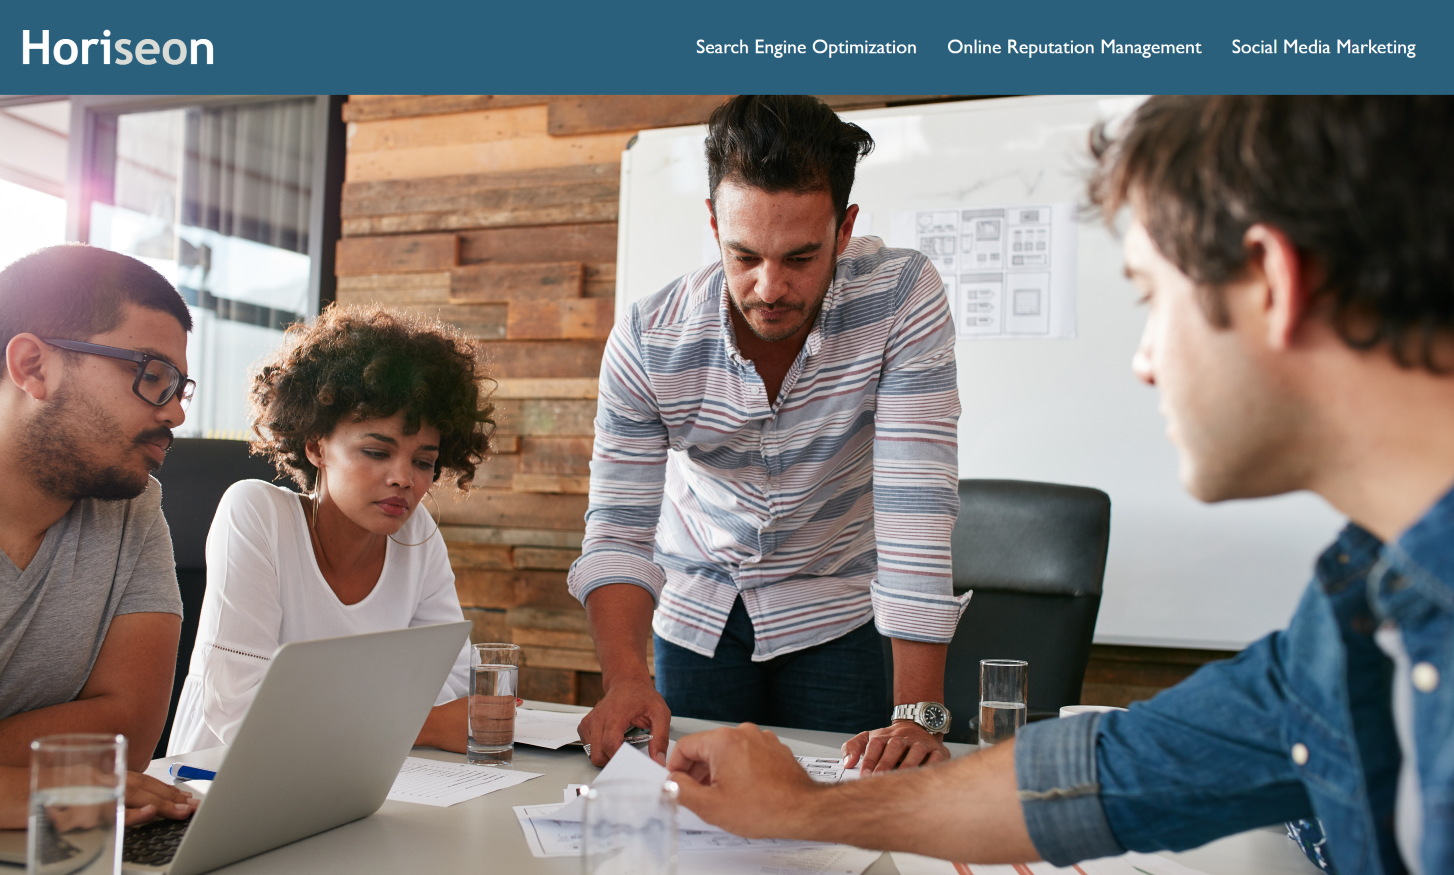
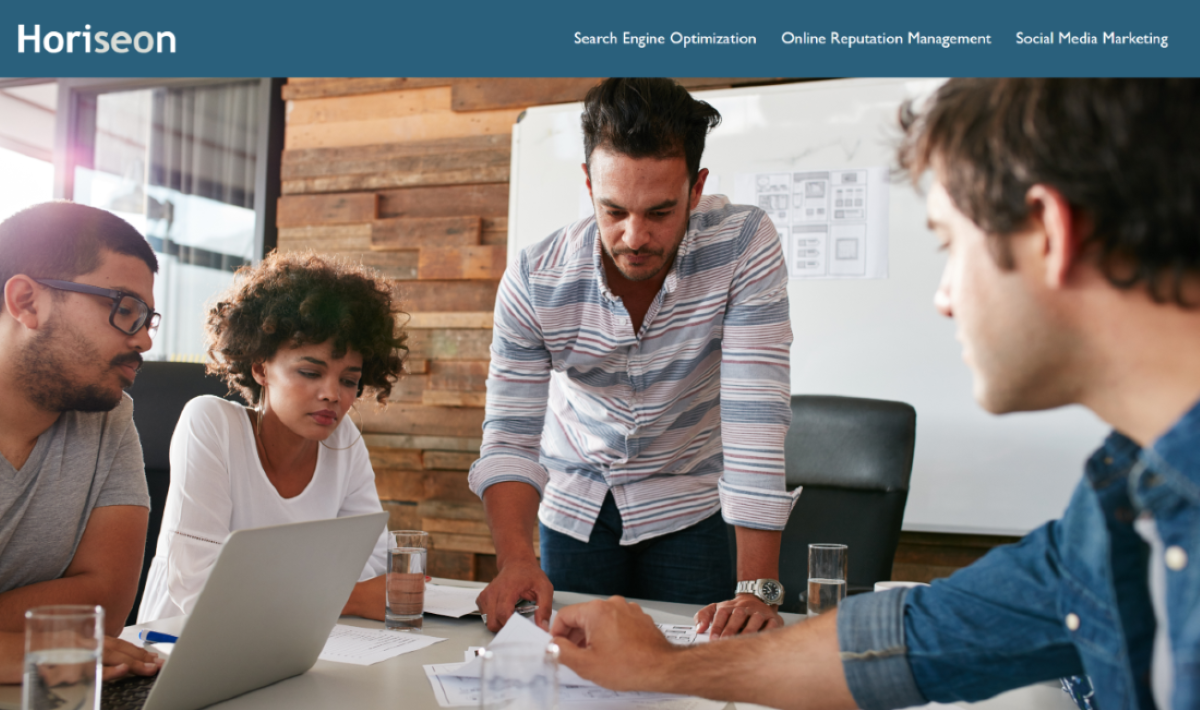
further formatted work content images. started to add headings to anchors

diff --git a/assets/style.css b/assets/style.css
@@ -99,7 +99,6 @@ header li {
 .about-me-container {
     width: 100%;
     display: flex;
-    margin-top: 30px;
 }
 
 .about-me-title {
@@ -122,10 +121,11 @@ header li {
 }
 
 /* work section */
-.work-container-1 {
+.work-container {
     display: flex;
     width: 100%;
     margin-top: 30px;
+    justify-content: space-between;
 }
 
 .work-title {
@@ -142,68 +142,26 @@ header li {
     display: flex;
     flex-wrap: wrap;
     width: 81%;
+    justify-content: center;
 }
 
 #horiseon {
-    width: 100%;
-}
-
-.work-card-1 img {
     position: relative;
-    width: 1500px;
-    height: 800px;
     border: 4px var(--header-color) solid;
-    margin-left: 35px;
-    z-index: 0;
 }
 
-.work-card-1 {
-    position: relative;
-}
-
-.work-card-1 h4 {
+#horiseon h4 {
     position: absolute;
-    left: 39px;
-    bottom: 40px;
-    font-size: 35px;
-    background-color: var(--header-color);
-    padding: 5px 5px 5px 15px;
-    color: var(--header-bg);
-    z-index: 2;
-}
-
-.work-container-2 {
-    display: flex;
-    position: relative;
-    width: 100%;
-    justify-content: flex-end;
-    margin-top: 20px;
-}
-
-.work-container-2 img {
-    border: 4px var(--header-color) solid;
-    height: 400px;
-    width: 740px;
-}
-
-#placeholder-3 img,
-#placeholder-5 img {
-    margin-right: 41px;
-}
-
-#placeholder-2 img,
-#placeholder-4 img {
-    margin-right: 20px;
-}
-
-.work-container-2 h4 {
-    position: absolute;
-    bottom: 30px;
-    font-size: 35px;
-    padding: 5px 5px 5px 15px;
+    bottom: 20px;
+    left: 20px;
     background-color: var(--header-color);
     color: var(--header-bg);
 }
+
+#placeholder-2 {
+    border: 5px yellowgreen solid;
+}
+
 /*
 #horiseon::after {
     content: '';
@@ -216,11 +174,12 @@ header li {
     z-index: 1;
 }
 
-/* Needs Adjusting */
+/* Needs Adjusting 
 #horiseon:hover::after {
     transform:scale(0);
     transition: 300ms;
 }
+*/
 
 .footer-parent-container {
     display: flex;

diff --git a/index.html b/index.html
@@ -61,7 +61,7 @@
             </section>
         </section>
         
-        <section class="work-container-1">
+        <section class="work-container">
             <section class="work-title">
                 <h3 class="work-h3">Work</h3>
             </section>
@@ -69,7 +69,7 @@
             <section class="work-content">  
 
                 <a href="#" id="horiseon">
-                    <img src="./assets/Images/website-screenshot.png" />
+                    <img src="./assets/Images/horiseon-screenshot.png">
                     <h4>Horiseon Refactor</h4>
                 </a>
                 
